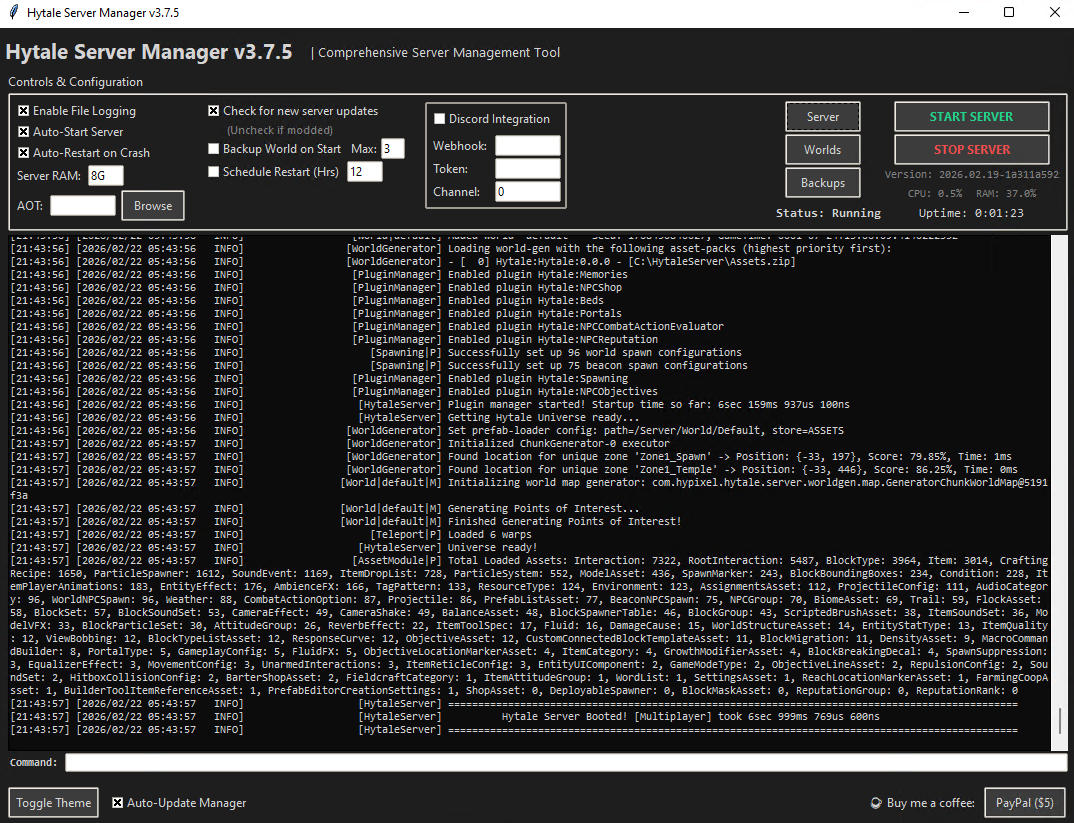
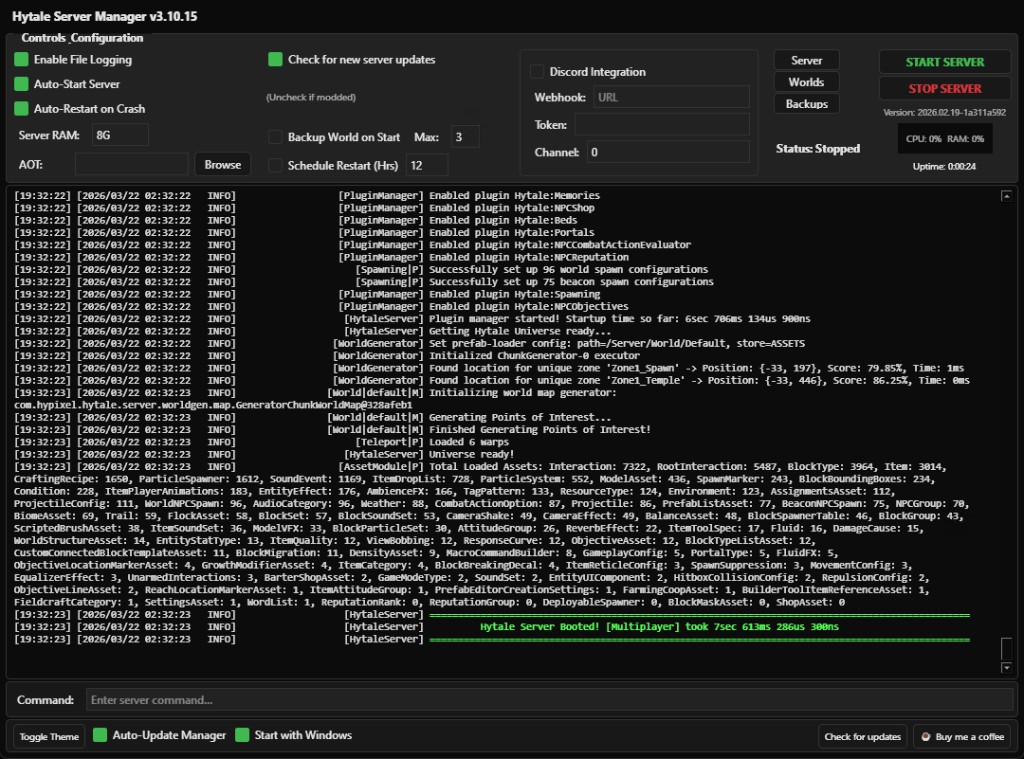
chore: code cleanup, README screenshot, platform badge (Windows|Linux|macOS)
Made-with: Cursor

diff --git a/README.md b/README.md
@@ -6,13 +6,15 @@
   </p>
 
   <p>
-    <img alt="Version" src="https://img.shields.io/badge/version-3.10.15-blue.svg" />
+    <img alt="Version" src="https://img.shields.io/badge/version-3.10.16-blue.svg" />
     <img alt="Python" src="https://img.shields.io/badge/python-3.8%2B-blue.svg" />
-    <img alt="Platform" src="https://img.shields.io/badge/platform-Windows%20%7C%20Linux%20%7C%20Arch%20%7C%20macOS-lightgrey.svg" />
+    <img alt="Platform" src="https://img.shields.io/badge/platform-Windows%20%7C%20Linux%20%7C%20macOS-lightgrey.svg" />
   </p>
 </div>
 
 ![Hytale Server Manager Screenshot](screenshot.png)
+
+*Screenshot: Hytale Server Manager v3.10.16 — Controls, live metrics (CPU/RAM/uptime), and console output.*
 
 ---
 
@@ -140,18 +142,6 @@ Changes made to the server logic are primarily driven by the `hsm.conf` JSON fla
 
 ## 🏷️ Versioning
 
-**Current Version:** `3.9.7`
+**Current Version:** `3.10.16`
 
-### Changelog
-
-- **3.9.7** — Single-instance detection; default checkboxes with hover.
-- **3.9.6** — Extended debug.log: server lifecycle, crash detection, backup, commands.
-- **3.9.5** — Interactive buttons/checkboxes (hover color, active glow); console text 1pt smaller.
-- **3.9.4** — Pre-req check with visible warning + one-click Install when PySide6/psutil missing (works with pythonw).
-- **3.9.3** — Remove rich; pythonw-friendly exception handling (no input hang).
-- **3.9.2** — debug.log on startup for launch diagnostics.
-- **3.9.1** — Restore compact layout: 1080×800, dense controls, large console.
-- **3.9.0** — GUI migrated from Tkinter to PySide6; professional fixed-size layout; Fusion style with dark/light themes.
-- **3.8.5** — Fixed an edge case where `check_self_update()` could still return `None` on parse failure. Strengthened the server startup lifecycle lock with an atomic `_starting` flag to prevent redundant process spawns during rapid-fire start requests.
-- **3.8.4** — General stability and compatibility release. Fixed `stop_server()` to wait for process exit, replaced deprecated `wmic` with PowerShell on Windows 11, fixed registry path corruption in autostart, and improved memory efficiency during updates. Added thread safety for server lifecycle and enhanced logging.
-- **3.8.3** — Fixed: "Start with Windows" now correctly sets the working directory... (rest of the text)
+See [CHANGELOG.md](CHANGELOG.md) for full version history.

diff --git a/CONVERSATION_LOG.md b/CONVERSATION_LOG.md
@@ -1,5 +1,13 @@
 # Conversation Log
 
+## 2025-03-21 (continued)
+
+- **Code cleanup:** Module docstring; section comments; bare `except:` → `except OSError`/`Exception`
+- **README:** New screenshot; platform badge (Windows | Linux | macOS); version 3.10.16; link to CHANGELOG
+- **Version:** 3.10.15 → 3.10.16 (PATCH)
+
+---
+
 ## 2025-03-21
 
 - **Uptime counter fix:** Added `get_uptime_str()` to core; GUI polls via QTimer every 1s. Uptime no longer relies on monitor-loop callbacks.

diff --git a/CHANGELOG.md b/CHANGELOG.md
@@ -1,5 +1,11 @@
 # Changelog
 
+## 3.10.16 (2025-03-21)
+
+- **chore:** Module docstring; section comments (Constants, Config, Core, CLI, GUI, Main)
+- **chore:** Replace bare `except:` with `except OSError` or `except Exception`
+- **chore:** README: new screenshot, platform badge (Windows | Linux | macOS), version link to CHANGELOG
+
 ## 3.10.15 (2025-03-21)
 
 - **fix:** Uptime counter: add GUI-side QTimer polling `core.get_uptime_str()` every second

diff --git a/TASKS.md b/TASKS.md
@@ -6,6 +6,11 @@
 
 ## Completed by Version
 
+### 3.10.16 (2025-03-21)
+
+- [x] Code cleanup: docstring, section comments, bare except fixes
+- [x] README: new screenshot, platform badge, CHANGELOG link
+
 ### 3.10.15 (2025-03-21)
 
 - [x] Uptime counter: GUI polling via get_uptime_str() every 1s